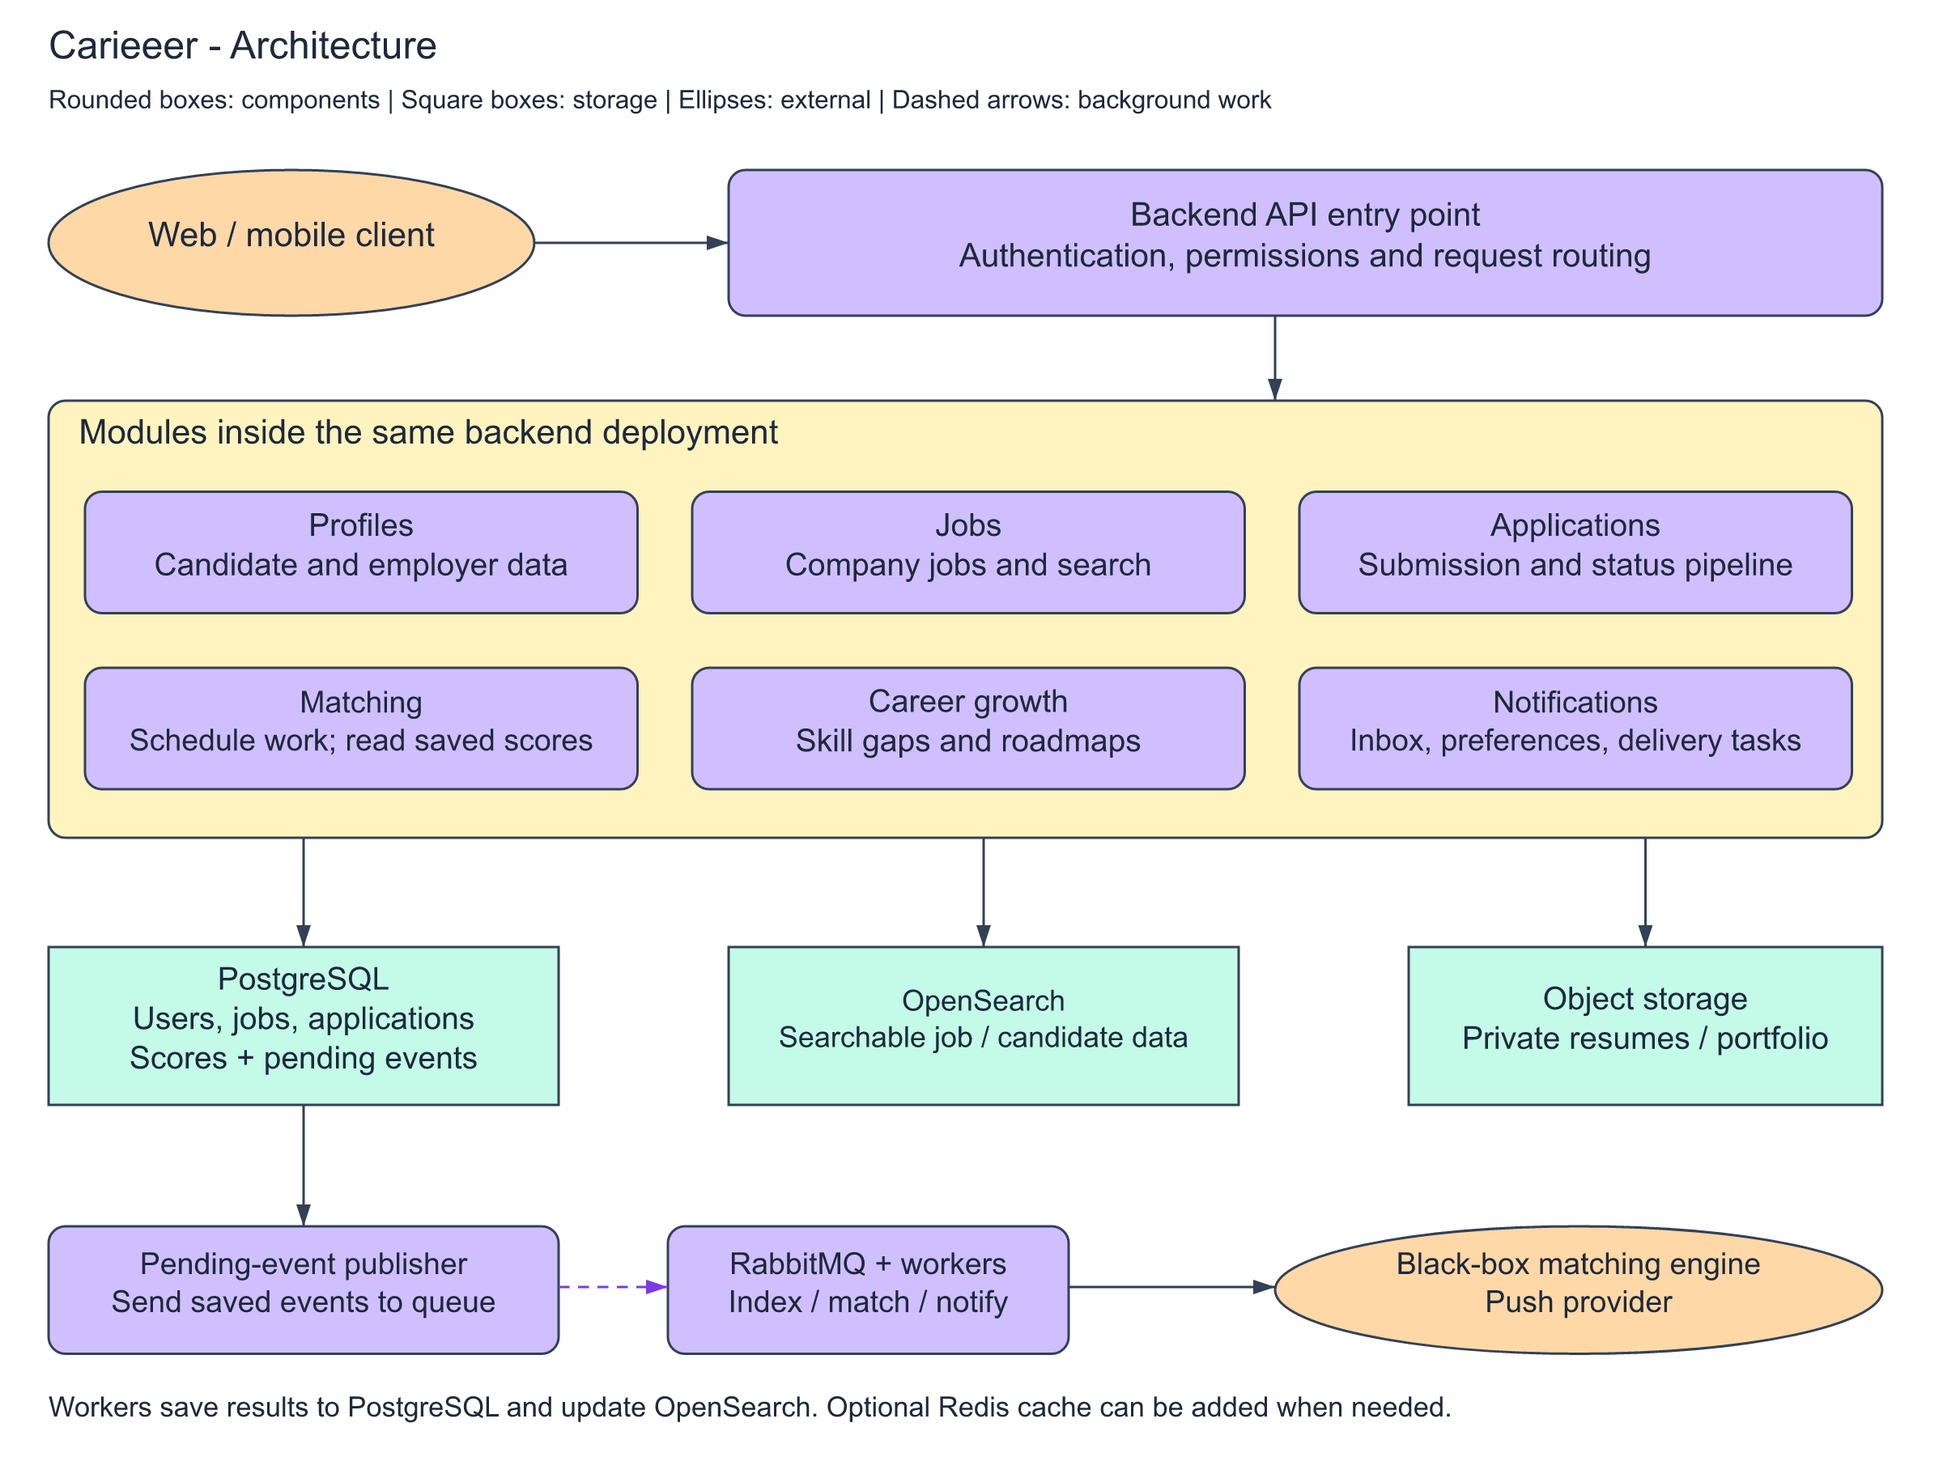
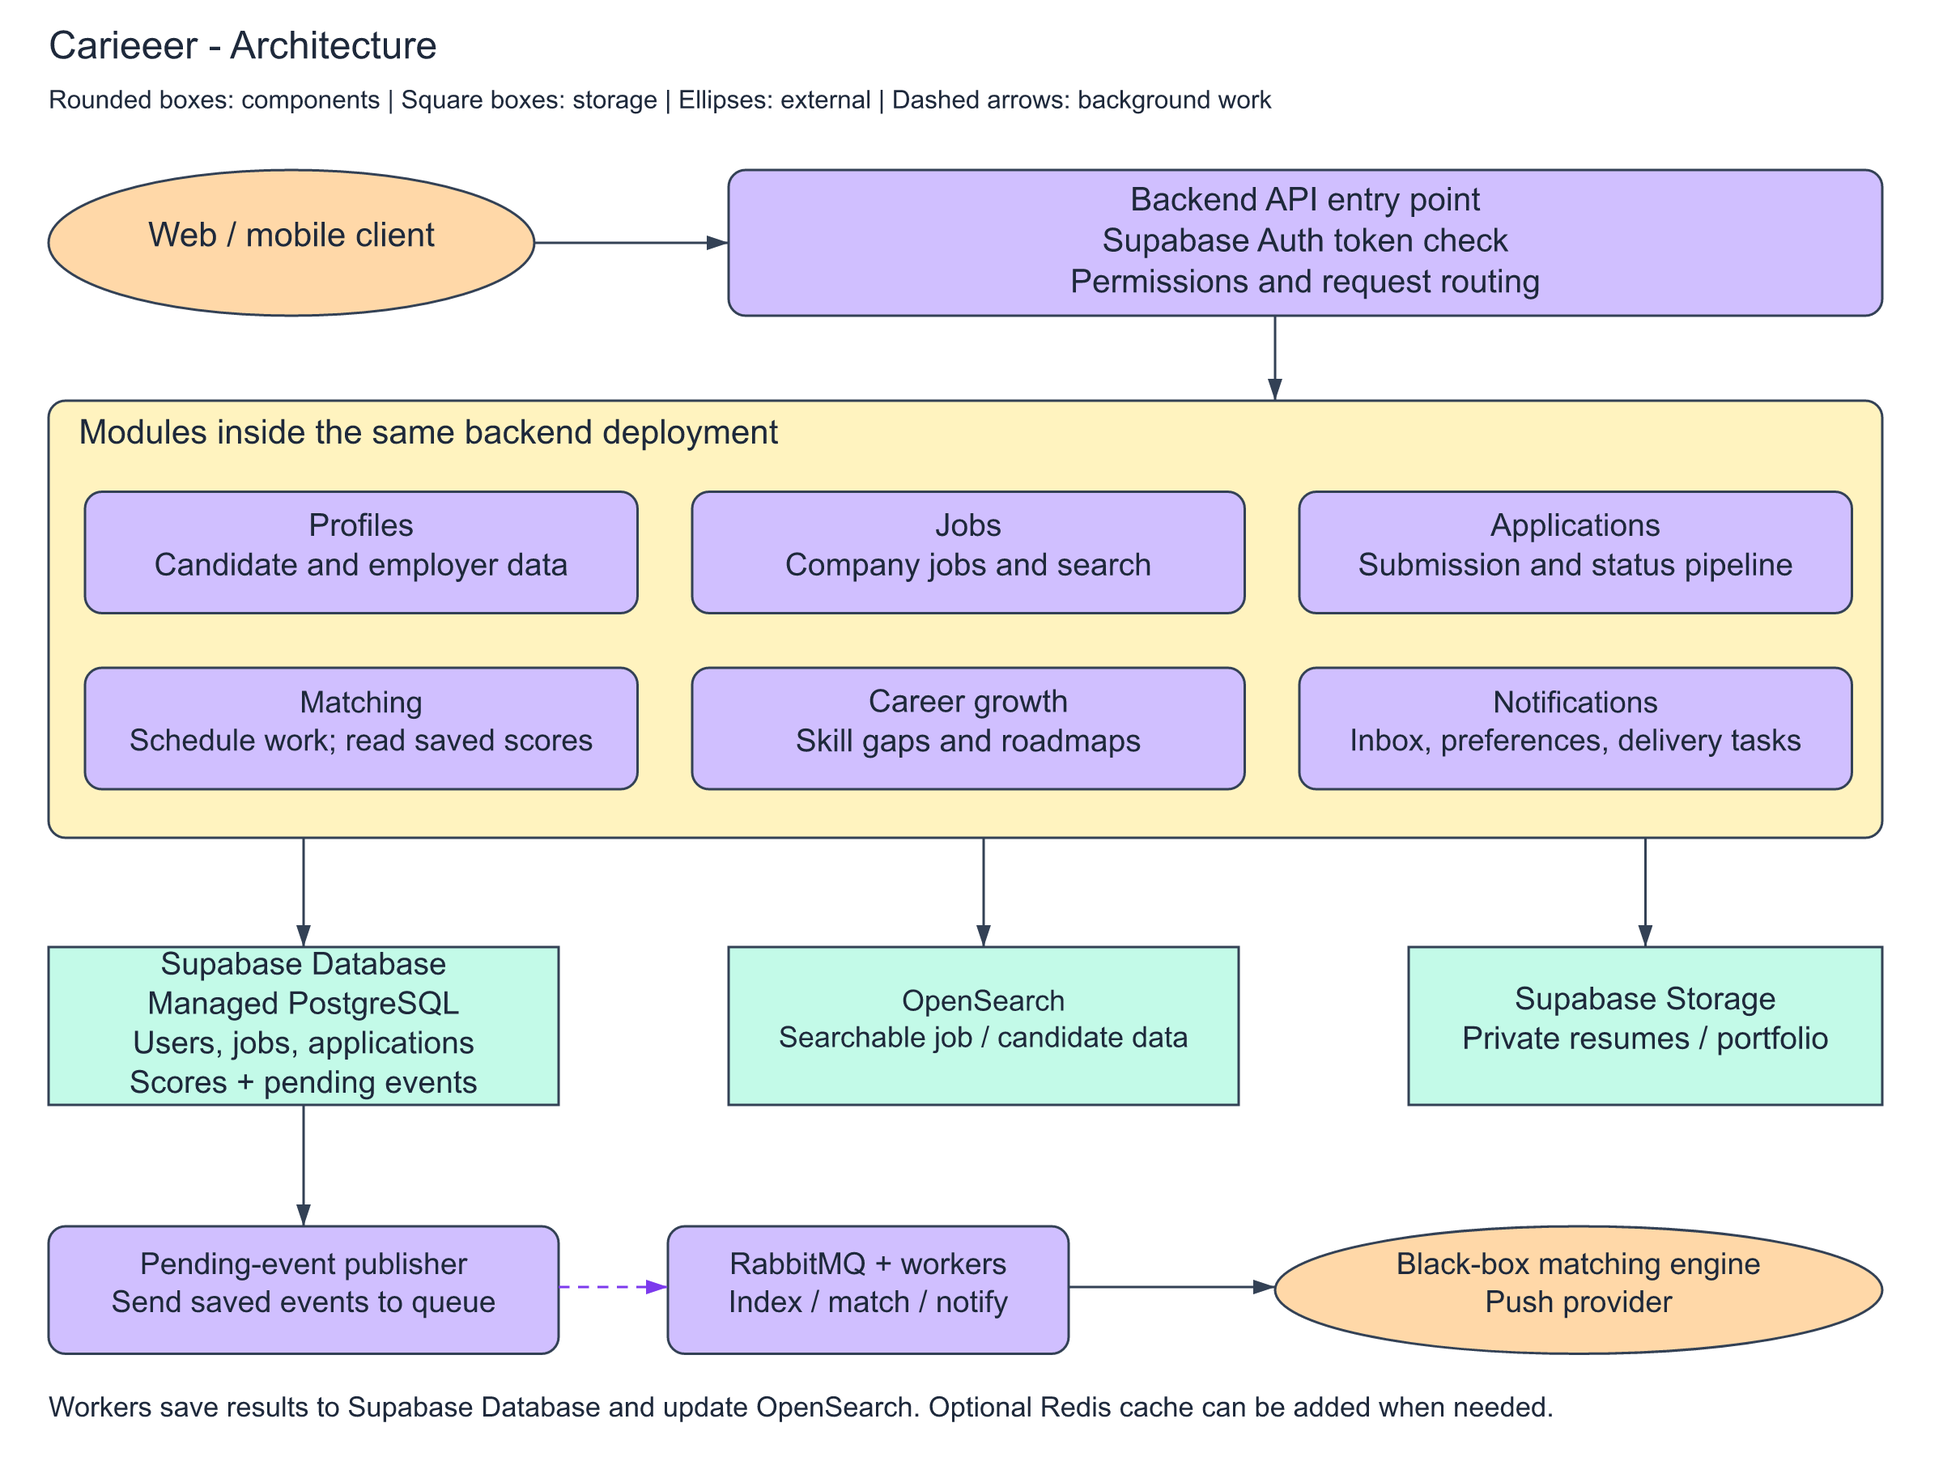
Use Supabase for auth database and storage

diff --git a/README.md b/README.md
@@ -25,7 +25,7 @@ This repository contains the system design. It does not include an application i
 | Performance | Aim for most profile reads under 300 ms and searches under 500 ms. These are targets, not tested results. |
 | Scalability | Start with one backend, then add backend instances and workers as traffic grows. |
 | Consistency | Applications must not be duplicated. Search and matching results may take a short time to update. |
-| Durability | Keep database backups and use a standby database for recovery. |
+| Durability | Configure Supabase database backups and test recovery. Back up stored files separately. |
 | Security | Use authentication, owner/company permission checks, HTTPS and private resume storage. |
 | Reliability | Retry temporary background failures and keep failed tasks for investigation. |
 | Maintainability | Keep features in separate backend modules. Log errors and monitor API latency and queue size. |
@@ -34,11 +34,11 @@ This repository contains the system design. It does not include an application i
 
 ## 2. Data model
 
-Use **PostgreSQL** because jobs, users and applications have clear relationships, and applications need transactions and unique constraints.
+Use **Supabase** for this project. Supabase gives us a managed PostgreSQL database, Auth, and Storage in one place. PostgreSQL is useful here because jobs, users and applications have clear relationships, and applications need transactions and unique constraints.
 
 | Entity | Main fields |
 |---|---|
-| User | id, name, email, password_hash, account_type |
+| User | id (references auth.users.id), name, account_type |
 | CandidateProfile | user_id, bio, experience, education, career_goal, portfolio, searchable, revision |
 | Company | id, name, description, website |
 | Employer | user_id, company_id, role |
@@ -57,6 +57,7 @@ Use **PostgreSQL** because jobs, users and applications have clear relationships
 
 Important relationships:
 
+- Supabase Auth owns login credentials and email. The application User table stores profile information; it does not store passwords.
 - One candidate profile belongs to one user. An employer links a user to a company.
 - A company has many jobs. Candidates and jobs each have many skills through join tables.
 - A candidate has many applications; a job receives many applications.
@@ -73,9 +74,11 @@ Small supporting records keep file ownership/scan status, pending events and req
 
 Paths below start with `/api`. The examples show the main fields, not every optional field. The server identifies the user from authentication; a candidate cannot submit on someone else's behalf.
 
+These are our backend routes, not Supabase's generated REST paths. Registration and login delegate to Supabase Auth. The backend verifies the Supabase access token before handling other routes. Registration may require email confirmation before a session is issued; users cannot grant themselves company-admin permissions through signup metadata.
+
 | Method and endpoint | Request | Response |
 |---|---|---|
-| POST /auth/register | {name, email, password, account_type} | {user_id} |
+| POST /auth/register | {name, email, password, account_type} | {user_id, confirmation_required} |
 | POST /auth/login | {email, password} | {access_token} |
 | PUT /me/profile | {bio, skills, experience, education, career_goal, portfolio, searchable} | {profile} |
 | POST /me/files | Multipart resume or portfolio file | {file_id, status} |
@@ -126,14 +129,17 @@ Start with a **modular monolith**: one backend deployment with separate modules 
 
 ![Architecture](diagrams/exports/architecture.png)
 
-- **Backend API:** authenticates requests and calls the relevant module.
-- **PostgreSQL:** main source of truth for users, jobs and applications.
+- **Backend API:** verifies Supabase tokens, checks permissions and calls the relevant module.
+- **Supabase Auth:** handles signup, login and sessions.
+- **Supabase Database:** managed PostgreSQL, the main source of truth for profiles, jobs and applications.
 - **OpenSearch:** keyword search and filters. Its data is copied from PostgreSQL.
 - **RabbitMQ and workers:** process matching, indexing and notifications in the background.
-- **Object storage:** stores resume and portfolio files. PostgreSQL stores their references.
+- **Supabase Storage:** private buckets for resume and portfolio files. PostgreSQL stores their references and scan status.
 - **Redis, later if needed:** cache frequently read job details. It is not needed for application correctness.
 
 The boxes inside the backend describe code modules, not separate servers. Matching and notification modules put expensive work on the queue. Workers read the required data and save results back to the database.
+
+Application changes still go through the backend and a database transaction. Supabase does not replace the matching engine, dedicated search or background workers in this design. Keep business-write tables inaccessible to browser database calls; use Row Level Security (RLS) for any client-accessible tables and Storage policies for private files.
 
 ## 5. Main flows
 
@@ -156,16 +162,16 @@ The unique candidate/job constraint prevents two requests from creating two appl
 | Applied | Screened or Rejected |
 | Screened | Interview or Rejected |
 | Interview | Offer or Rejected |
-| Offer | Rejected |
+| Offer | None |
 | Rejected | None |
 
-Following the task's listed pipeline, an offer can still end in Rejected. There is no separate Accepted/Hired state in this design. Backward moves and skipped stages are rejected.
+Rejected is a terminal outcome that can be selected from Applied, Screened or Interview. Offer is also terminal in this design; there is no separate Accepted/Hired state. Backward moves and skipped stages are rejected.
 
 ![Flows](diagrams/exports/flows.png)
 
 ## 6. Deep dives and estimates
 
-[DEEP_DIVES.md](DEEP_DIVES.md) explains duplicate prevention, search consistency, matching, notifications and scaling.
+[DEEP_DIVES.md](DEEP_DIVES.md) explains duplicate prevention, search consistency, matching, notifications and scaling. [docs/supabase.md](docs/supabase.md) explains the Supabase-specific Auth, RLS and Storage setup.
 
 [ESTIMATION.md](ESTIMATION.md) contains a small capacity estimate. The main trade-off is keeping applications correct immediately while allowing search, matching and notifications to update shortly afterward.
 
@@ -193,3 +199,5 @@ diagrams/
 | Main flows | [Excalidraw](diagrams/flows.excalidraw) | [SVG](diagrams/exports/flows.svg) |
 
 The diagrams were created with Excalidraw MCP. The editable files and PNG/SVG previews use the same scene content; the previews use plain vector styling.
+
+Supabase references: [Database](https://supabase.com/docs/guides/database/overview), [Auth user data](https://supabase.com/docs/guides/auth/managing-user-data), [Row Level Security](https://supabase.com/docs/guides/database/postgres/row-level-security), [Storage access](https://supabase.com/docs/guides/storage/security/access-control).

diff --git a/DEEP_DIVES.md b/DEEP_DIVES.md
@@ -2,7 +2,7 @@
 
 ## 1. Database and duplicate applications
 
-PostgreSQL fits the main data because users, companies, jobs and applications are related. A transaction lets the application and its status history succeed or fail together.
+Supabase Database provides PostgreSQL, which fits the main data because users, companies, jobs and applications are related. A transaction lets the application and its status history succeed or fail together. Use a server-side Postgres transaction on one pooled connection: several separate Supabase API calls would not make these writes atomic.
 
 Checking “does this application exist?” before inserting is not enough: two requests could both pass that check. Add a UNIQUE constraint on `(candidate_id, job_id)`. One request succeeds; the other gets 409 and the existing application ID.
 
@@ -10,11 +10,11 @@ For a lost response, the client retries with the same Idempotency-Key. Keep the 
 
 A job can also close while someone applies. The apply transaction takes a shared row lock on the job and checks it is open; closing the job takes a conflicting update lock. Whichever gets the lock first determines the order. Keep the transaction short and never wait for notifications inside it.
 
-Trade-off: database checks add some work, but a duplicate or wrongly accepted application is worse than a slightly slower submit.
+Trade-off: database checks add some work, but a duplicate or wrongly accepted application is worse than a slightly slower submit. Supabase reduces setup work, but database capacity and backup features still depend on the selected plan; it is not unlimited infrastructure.
 
 ## 2. Application status changes
 
-Only allow the transitions listed in the README. Store a version number on each application.
+Only allow the transitions listed in the README. Store a version number on each application. Rejected can happen from Applied, Screened or Interview; Offer and Rejected are terminal.
 
 If two recruiters both edit version 1, the update checks `WHERE version = 1`. One update creates version 2. The other changes no rows and returns 409, asking the client to refresh.
 
@@ -67,16 +67,18 @@ Start with one backend codebase and separate worker processes. Add API instances
 
 Add Redis only when repeated reads become a measured problem. Cache popular job details briefly, for example one minute. The cache may be stale, so it cannot decide whether an application is allowed. On cache failure, read from PostgreSQL with rate limits.
 
-A read replica can later handle public read traffic, but application writes and permission checks should use the primary database. Sharding is unnecessary at the starting scale.
+A read replica can later handle public read traffic if the selected Supabase setup supports it, but application writes and permission checks should use the primary database. Sharding is unnecessary at the starting scale.
 
-Keep backups and test restoring them. If PostgreSQL is unavailable, return an error rather than claiming an application succeeded. If matching or notifications fail, applications should still work. Monitor API errors, latency, slow queries and the oldest queued task; logs should help identify failed requests without containing resumes or passwords.
+Choose an appropriate Supabase backup/recovery option and test restoring it. Database backups do not restore the bytes in Storage buckets, so arrange separate file backups too. If Supabase Database is unavailable, return an error rather than claiming an application succeeded. If matching or notifications fail, applications should still work. Monitor API errors, latency, slow queries and the oldest queued task; logs should help identify failed requests without containing resumes or passwords.
 
 ## 7. Security
 
-Hash passwords using a maintained password-hashing library, use short-lived authentication tokens and serve requests over HTTPS.
+Use Supabase Auth for password handling and sessions instead of implementing password storage. The backend verifies token signature, issuer and expiry and uses the verified user ID. Serve requests over HTTPS.
 
 Candidates can edit only their own profile. Employers can change jobs and view applications only for their company. Candidate discovery is opt-in; applying shares the required candidate information with that job's employer.
 
-Store resume files privately, validate type/size and scan uploads before making them available. Use short-lived download links after checking access. Validate API input, limit login/application attempts and record employer status changes for auditing.
+Use private Supabase Storage buckets, validate file type/size and scan uploads before making them available. Scanning is our worker's responsibility, not an assumed Storage feature. Use short-lived signed download links after checking ownership or hiring-company access. Validate API input, limit login/application attempts and record employer status changes for auditing.
 
-These checks belong in the backend. Hiding a button in the interface is not authorization.
+Enable RLS for tables exposed through the Data API: for example, a candidate can access their own private profile and a user can read their own notifications. Storage policies restrict file access too. Keep application/status writes behind the backend, without direct browser write grants, so clients cannot bypass the transaction or state rules. Secret/service-role keys stay on the server; they can bypass RLS, so backend permission checks are still required. A public client key is not authorization by itself.
+
+Hiding a button in the interface is not authorization. Supabase supplies the tools, but we still have to write and test the access rules.

diff --git a/docs/supabase.md b/docs/supabase.md
@@ -1,0 +1,49 @@
+# Supabase setup for Carieeer
+
+Supabase is the managed platform choice for this design:
+
+- **Auth** handles signup, login, email confirmation and sessions. The application `User` row references `auth.users.id`; it does not store passwords.
+- **Database** is Supabase's managed PostgreSQL database. Jobs, profiles, applications and status history stay here because they need foreign keys, a unique candidate/job constraint and transactions.
+- **Storage** uses a private bucket for resumes and portfolio files. Store only the object path, owner and scan status in the database. Return a short-lived signed URL after checking access.
+- **Realtime** is optional for a small in-app notification badge. The durable Notification table remains the source of truth; a reconnecting client can fetch missed notifications.
+- **Edge Functions or the backend worker** can publish outbox events and call the black-box matcher. Do not call the matcher from a browser request.
+
+## Access rules
+
+Enable Row Level Security (RLS) on every table exposed through the Supabase Data API. Keep application status changes behind the backend because they need the transaction, idempotency key and transition check.
+
+Example profile policy:
+
+```sql
+alter table candidate_profiles enable row level security;
+
+create policy "candidate reads own profile"
+on candidate_profiles for select to authenticated
+using ((select auth.uid()) = user_id);
+
+create policy "candidate updates own profile"
+on candidate_profiles for update to authenticated
+using ((select auth.uid()) = user_id)
+with check ((select auth.uid()) = user_id);
+```
+
+Employer policies should check membership in the `employers` table and the matching `company_id`, not a user editable profile field. Never use `raw_user_meta_data` for authorization; a user can edit it. If role information is placed in JWT `app_metadata`, remember it can be stale until the token refreshes, so sensitive routes also check the current database membership.
+
+Storage policies should bind a file path to the authenticated owner and keep the bucket private:
+
+```sql
+create policy "candidate uploads own file"
+on storage.objects for insert to authenticated
+with check (
+  bucket_id = 'career-files'
+  and (storage.foldername(name))[1] = (select auth.uid())::text
+);
+```
+
+The upload route still validates size/MIME/checksum and sends the object to malware scanning before attaching it to an application. The `service_role` key is server-only and never shipped to a browser.
+
+## Backups and limits
+
+Use the Supabase plan's database backups or point-in-time recovery as appropriate, and keep a separate backup/retention policy for Storage objects because database backups contain Storage metadata, not the file bytes. The estimates in [ESTIMATION.md](../ESTIMATION.md) are for choosing database, Auth, Storage and egress capacity; a free project is not assumed to cover the whole envelope.
+
+This is a design submission rather than a connected Supabase project, so the policies above are examples to apply and test in a real project's migrations.

diff --git a/ESTIMATION.md b/ESTIMATION.md
@@ -33,8 +33,10 @@ Assume 5,000 application alerts + 5,000 status alerts + 10,000 match/milestone a
 - Open job data: 10,000 × 5 KB ≈ **50 MB**, excluding older closed jobs.
 - Applications: 5,000/day × 365 × 2 KB ≈ **3.65 GB/year**.
 - Two history rows per application on average: 1.825M × 2 × 200 B ≈ **730 MB/year**.
-- Resumes: 100,000 × 1 MB ≈ **100 GB** in object storage.
+- Resumes: 100,000 × 1 MB ≈ **100 GB** in Supabase Storage.
 - Match writes: 20,000 × 20 = up to 400,000 rows/day. Seven-day expiry caps retained rows at roughly 2.8M before upsert reuse; at 100 B/row that is about **280 MB** before indexes.
 - Notifications: 20,000/day × 90 days × 500 B ≈ **900 MB** with a 90-day retention window.
 
 These are rough data sizes. Indexes, backups, file replacements and replicas need additional space. The main early concerns are growing application history and the cost of matching, rather than average API traffic.
+
+Use these numbers when choosing Supabase database compute, Auth usage, Storage and egress allowances. They are workload estimates, not a claim that a free plan covers this deployment. OpenSearch, RabbitMQ and the matching engine have separate resource costs.
